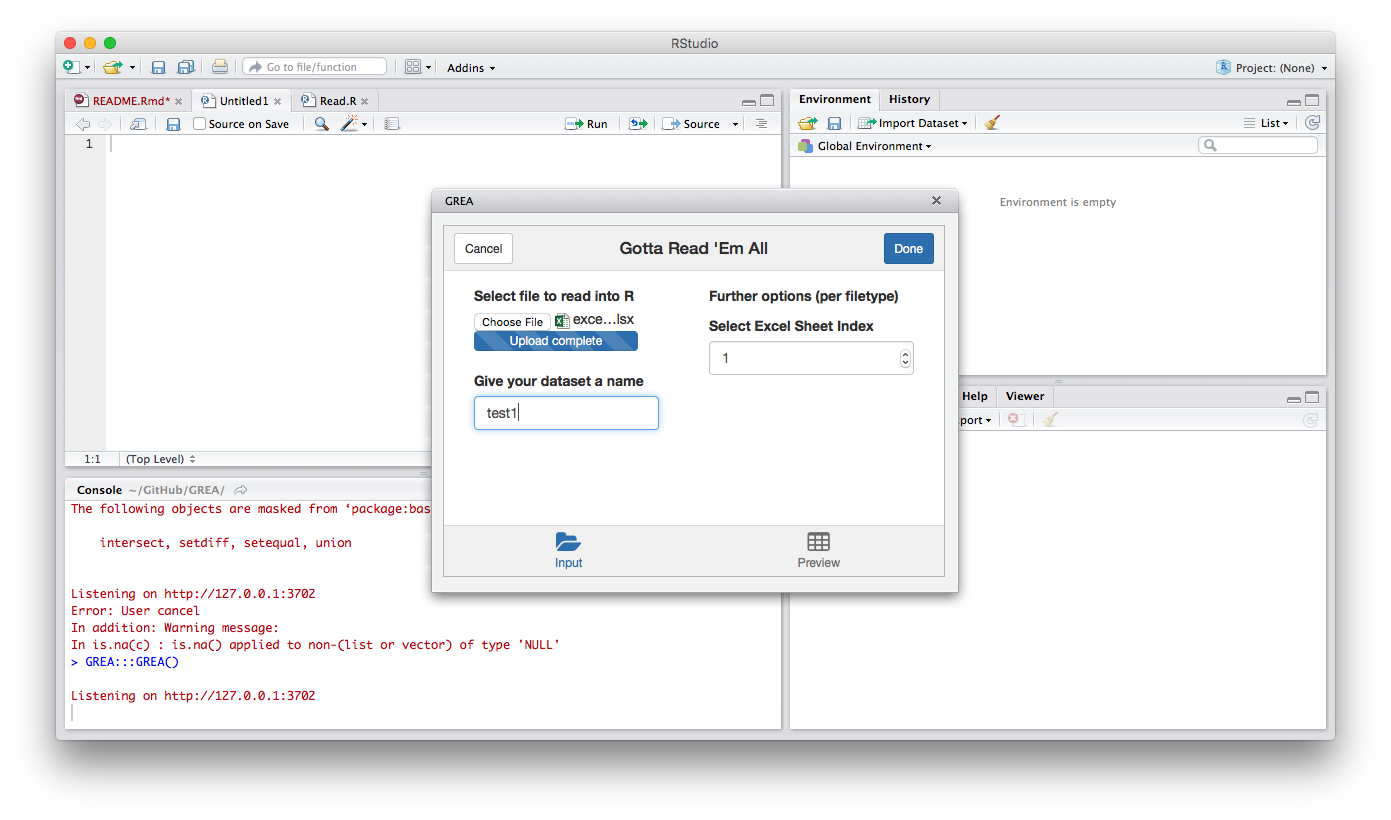
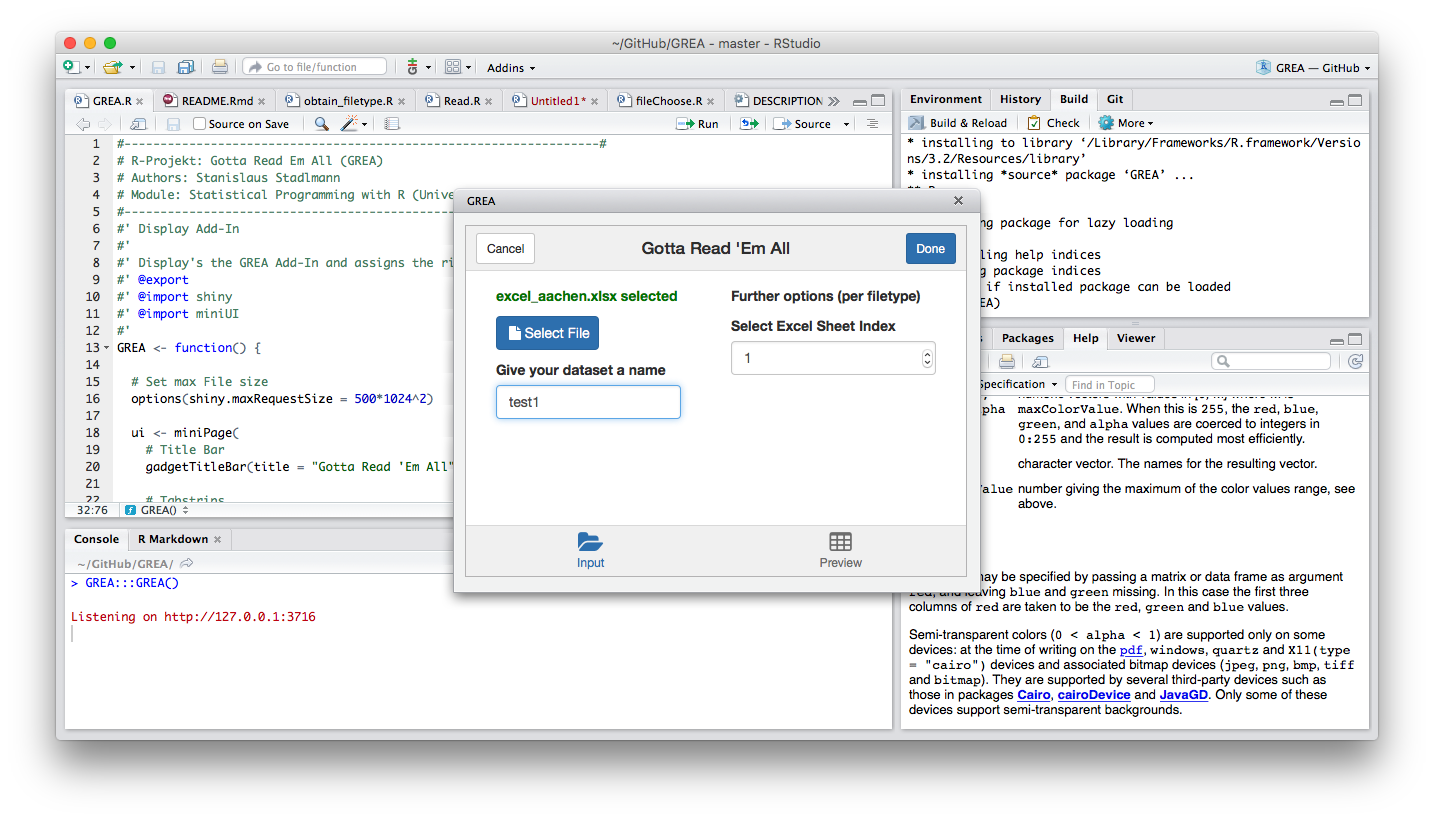
add 'filename detected' textOutput

diff --git a/README.md b/README.md
@@ -9,7 +9,7 @@ Click [here](http://imgur.com/a/a9M1p) for an interactive comic on why GREA is i
 
 ### News
 
-16.05.2015 - First version of GREA was wrapped up into a package
+16.05.2015 - First version of GREA was wrapped up into a package 22.05.2015 - `shiny::fileInput` dependency replaced with `fileChoose()` function
 
 ### Installation
 
